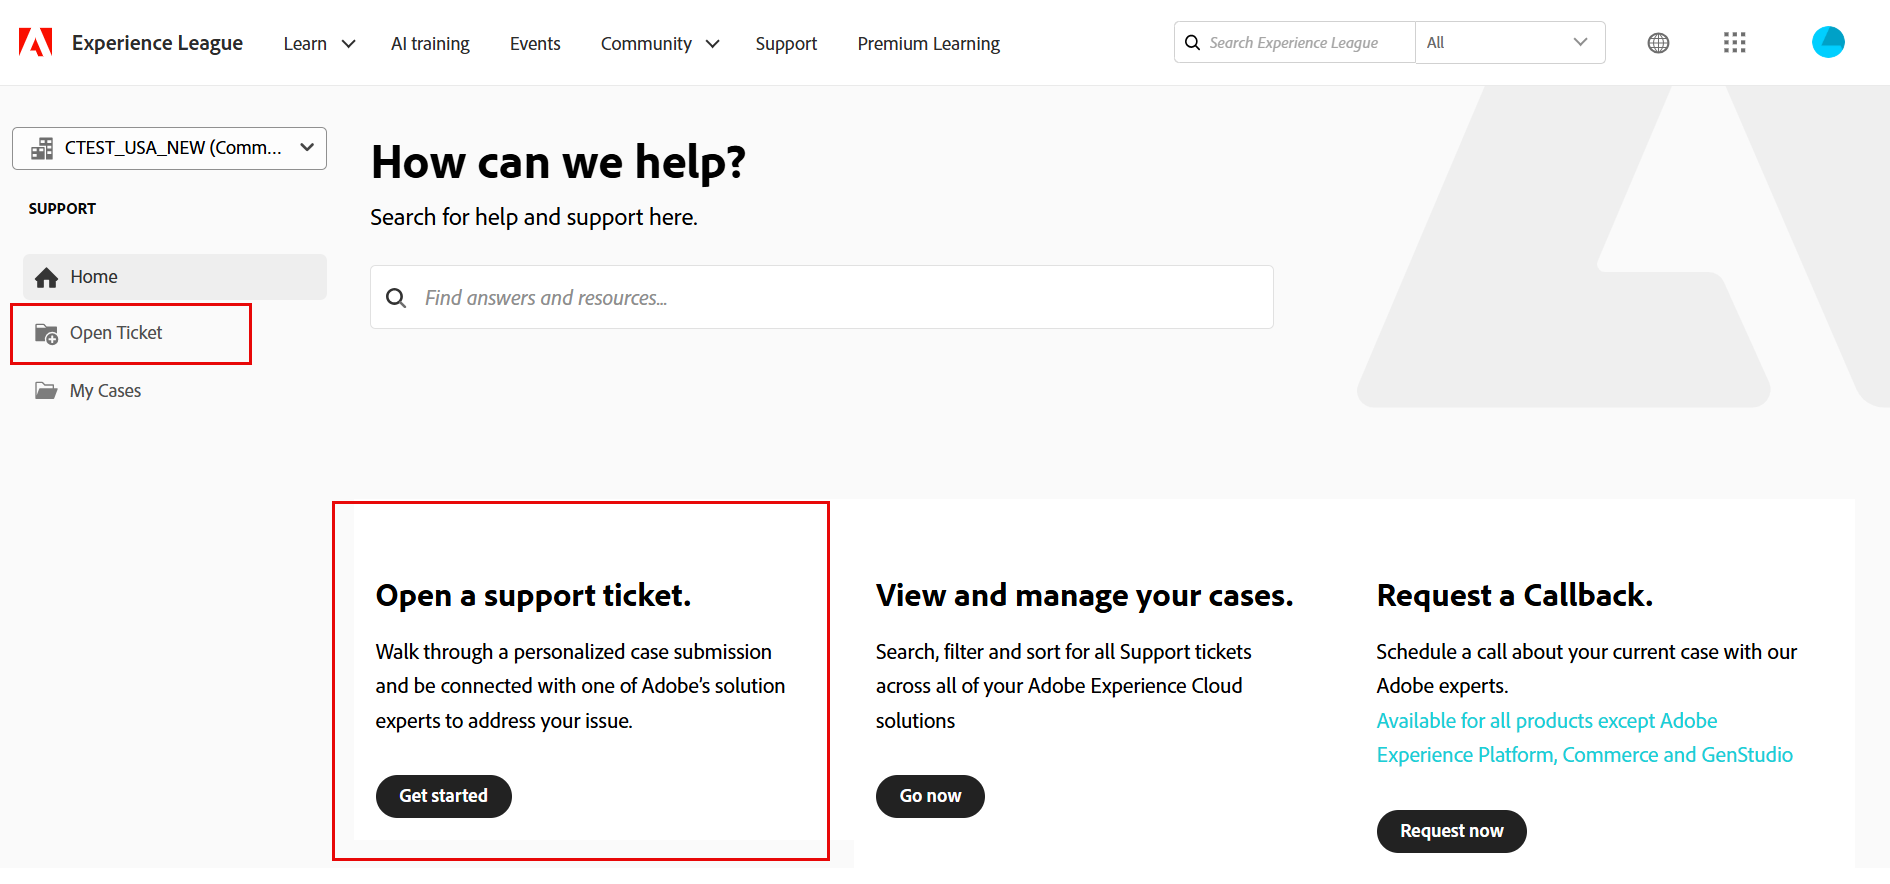
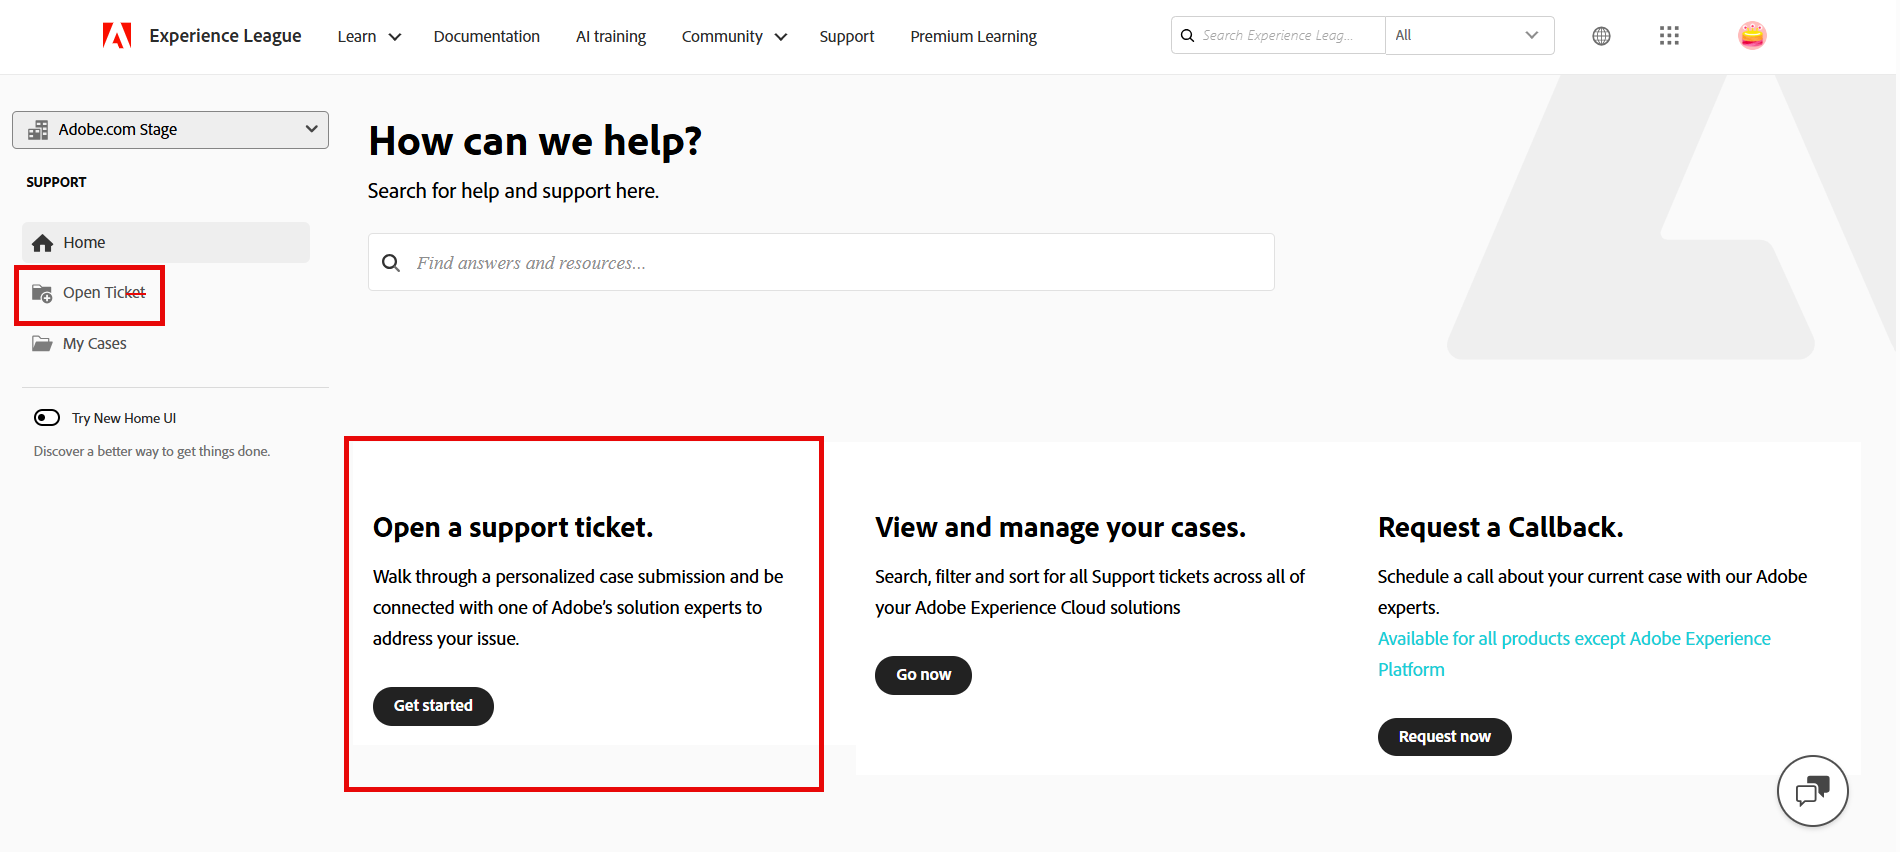
Updated images and text

diff --git a/help/adobe-support-tools-guide/adobe-customer-support-experience.md b/help/adobe-support-tools-guide/adobe-customer-support-experience.md
@@ -76,7 +76,7 @@ Experience League is a self-service support portal designed to provide personali
 
 1. From the **[!UICONTROL Home]** menu, you can **[!UICONTROL Open a support ticket]**, **[!UICONTROL View and manage your cases]**, **[!UICONTROL Request a Callback]**, or access additional learning resources.
 
-    The **[!UICONTROL Request a Callback]** option allows you to schedule web meetings with screen sharing, enabling faster and more efficient issue resolution. It is available for Adobe Experience Manager, Admin Console, Analytics, Audience Manager, Campaign, Marketo, Target and Workfront. Meetings can be scheduled at the customer's convenience, and instant invites are provided. For Adobe Experience Manager P1 cases, immediate callbacks are ensured to enable rapid engagement during critical issues, helping minimize downtime and business impact.
+    The **[!UICONTROL Request a Callback]** option allows you to schedule web meetings with screen sharing, enabling faster and more efficient issue resolution. It is available for Adobe Experience Manager, Admin Console, Analytics, Audience Manager, Campaign, Commerce, GenStudio, Marketo, Target and Workfront. Meetings can be scheduled at the customer's convenience, and instant invites are provided. For Adobe Experience Manager P1 cases, immediate callbacks are ensured to enable rapid engagement during critical issues, helping minimize downtime and business impact.
 
    ![Experience league home menu](./assets/home-menu.png)
 